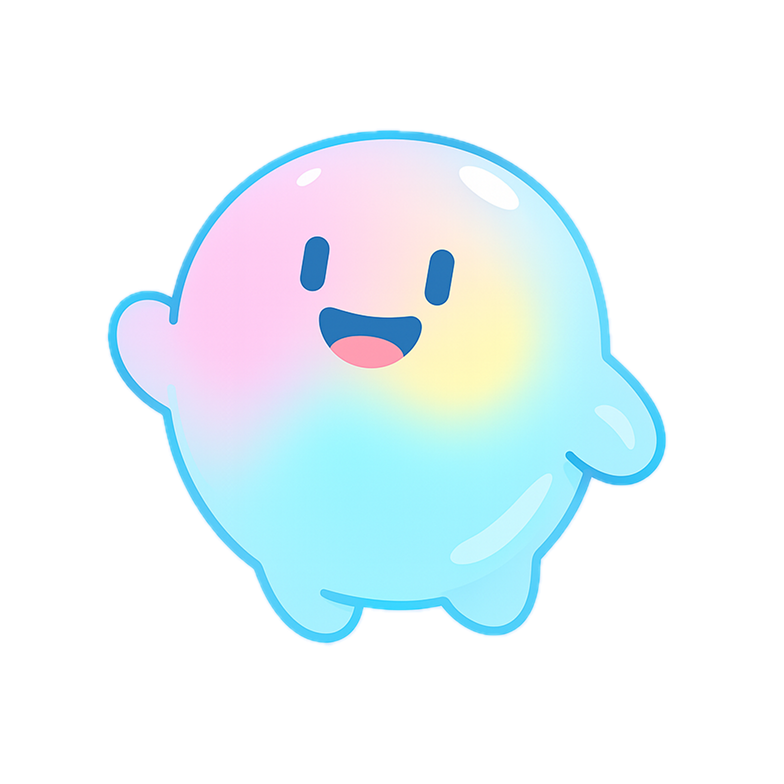
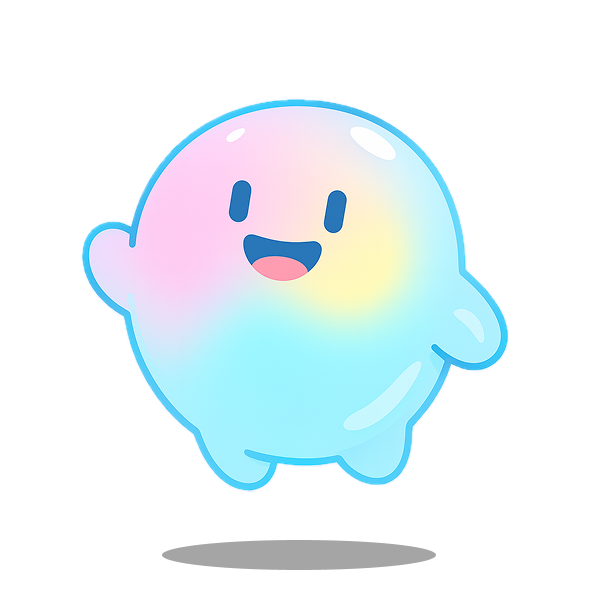
메인 기본틀 완성

Changed region(s): [[0.2709, 0.903, 0.7224, 0.9632], [0.7224, 0.5719, 0.7525, 0.602], [0.5418, 0.3612, 0.5719, 0.3913]]

diff --git a/src/screens/MainScreen.jsx b/src/screens/MainScreen.jsx
@@ -1,5 +1,5 @@
 import React from 'react';
-import { StyleSheet, Text, View } from 'react-native';
+import { Image, StyleSheet, Text, View } from 'react-native';
 import { useSafeAreaInsets } from 'react-native-safe-area-context';
 
 const MainScreen = () => {
@@ -9,13 +9,29 @@ const MainScreen = () => {
 	return (
 		<View style={[styles.screenContainer, {paddingTop: insets.top,}]}>
 			<Text style={styles.mainText}>오늘의 식단을{'\n'}등록해주세요</Text>
+			<View style= {styles.cloudImgWrapper}>
+				<Image 
+					source={require('../assets/images/cloud.png')}
+					style={styles.cloudImg}
+				/>
+			</View>
+			<View style={styles.charImgWrapper}>
+				<Image
+					source={require('../assets/images/character.png')}
+					style={styles.characterImg}
+				/>
+			</View>
 		</View>
 	);
 };
 
+// TODO : Wrapper 2개를 묶고, screen을 space-between으로 설정,
+// 그러면 글자는 맨 위, 이미지 두개는 아래로 정렬,
+// 그 상태에서 이미지 크기 다시 조절해보기.
+
 const styles = StyleSheet.create({
 	screenContainer: {
-		// alignItems: "flex-start",
+		// flex: 3,
 		justifyContent: "flex-start",
 		width: "100%",
 		height: "100%",
@@ -29,6 +45,32 @@ const styles = StyleSheet.create({
 		paddingLeft: "40",
 		paddingTop: "50",
 	},
+	cloudImgWrapper: {
+		padding: 0,
+		margin: 0,
+		width: "100%",
+		height: "40%",
+		alignItems: "center",
+		justifyContent: "flex-end",
+	},
+	cloudImg: {
+		margin: 0,
+		width: "80%",
+		height: "60%",
+		resizeMode: "contain",
+	},
+	charImgWrapper: {
+		width: "100%",
+		height: "40%",
+		alignItems: "center",
+		justifyContent: 'flex-start',
+	},
+	characterImg: {
+		width: "80%",
+		height: "80%",
+		resizeMode: "contain",
+	},
+	
 });
 
 export default MainScreen;
